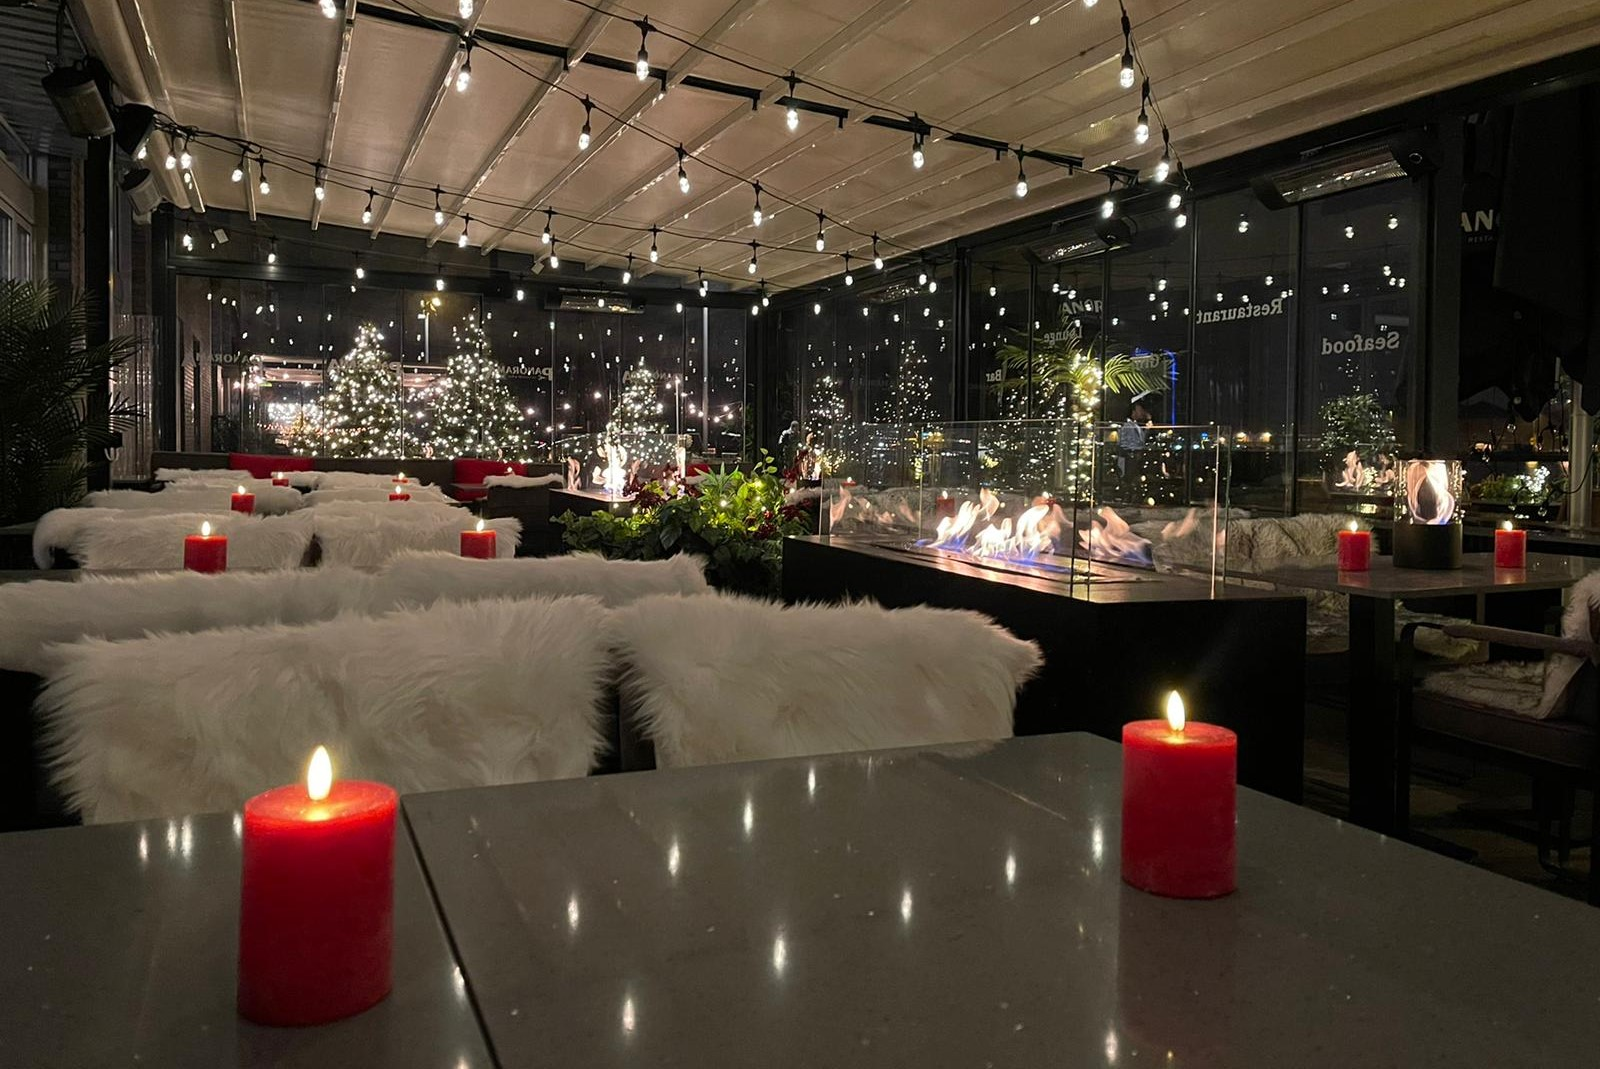
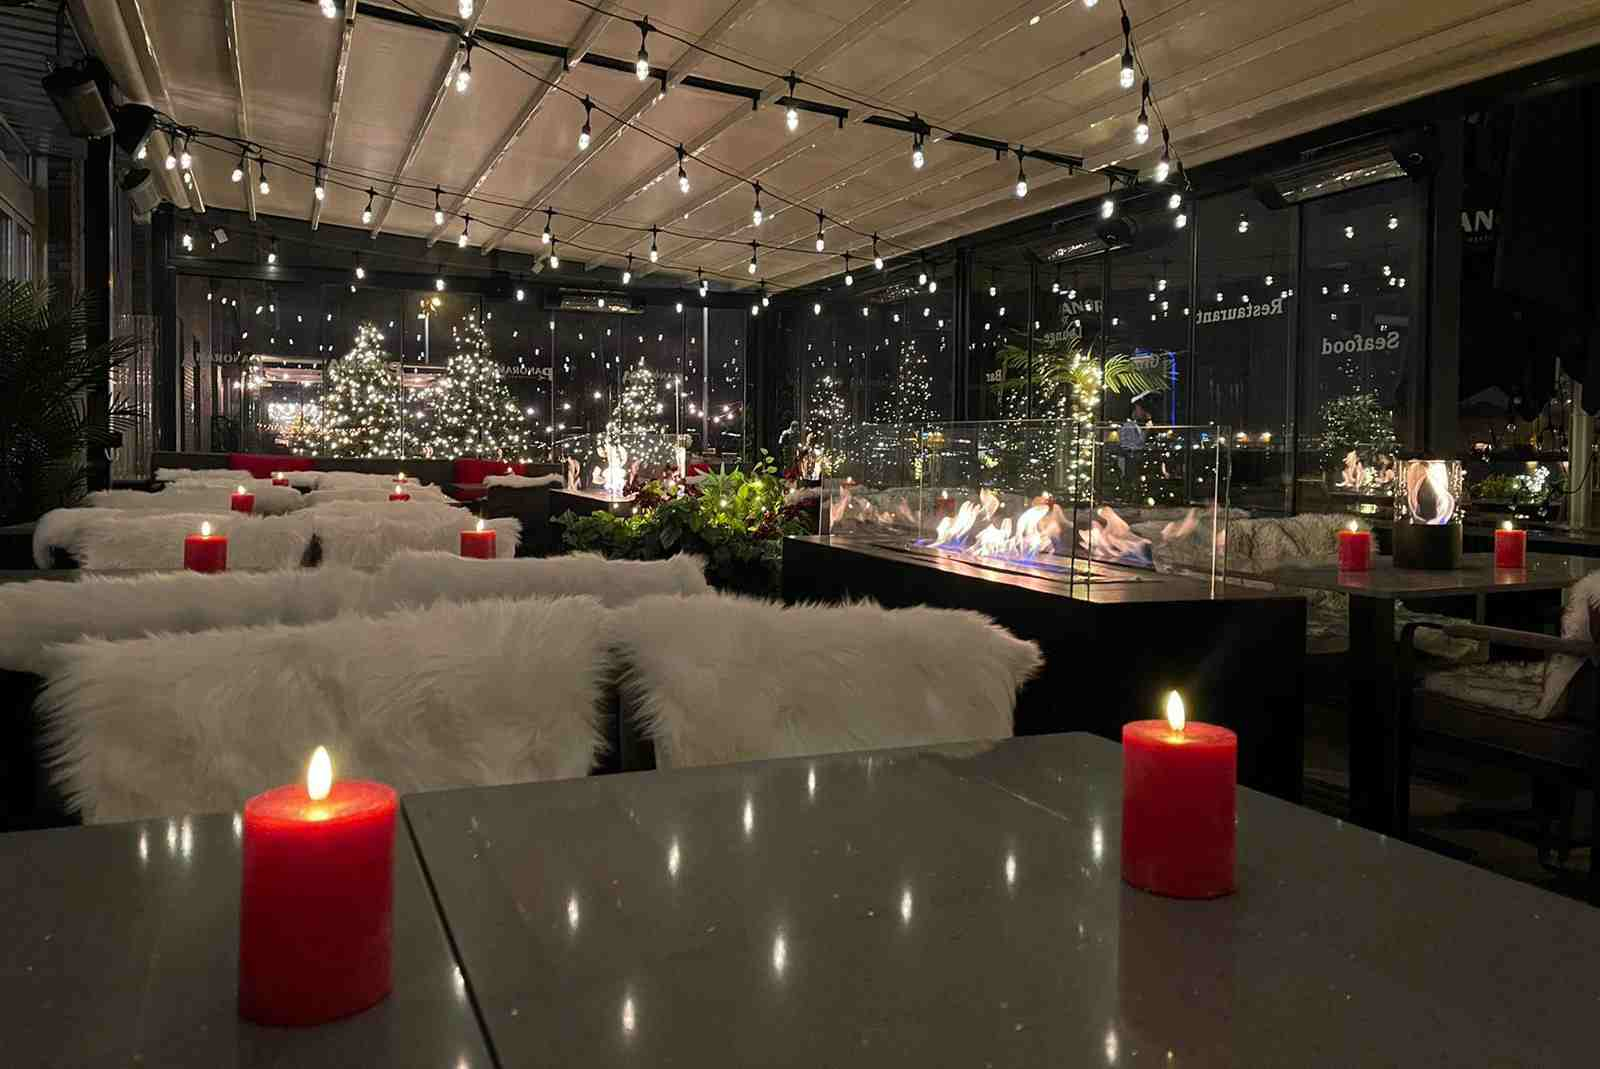
compressed some imgs and fixed some height and responsive issues at large and medium screen size

diff --git a/src/index.html b/src/index.html
@@ -33,8 +33,8 @@
     </header>
     <main class="inner">
 
-        <section id="heroBanner" class="relative h-[60vh] sm:h-[80vh] w-full  max-w-5xl mx-auto">
-            <div class="h-[60vh] sm:h-[80vh] w-full bg-hero-banner"></div>
+        <section id="heroBanner" class="relative h-[60vh] sm:h-[77vh] w-full  max-w-5xl mx-auto hero-banner">
+            <div class="h-[60vh] sm:h-[77vh] w-full bg-hero-banner"></div>
             <div class="hero-banner-img-shadow w-10 sm:w-16 absolute z-30"></div>
             <div class="hero-banner-img-shadow w-10 sm:w-16 absolute rotate-180 right-0 z-30"></div>
         </section>
@@ -65,7 +65,7 @@
             </div>
         </nav>
         <section id="omOss"
-            class="relative bg-cover bg-scroll bg-no-repeat bg-center xl:bg-[right_center] flex h-[90vh] w-full flex-col bg-[url('../src/img/om-oss-bilde.JPG')]">
+            class="relative bg-cover bg-scroll bg-no-repeat bg-center xl:bg-[right_center] flex h-[100vh] w-full flex-col bg-[url('../src/img/om-oss-bilde.JPG')]">
 
             <div
                 class="w-fit mx-auto sm:mr-0 p-5 sm:p-10 sm:pr-20 my-auto place-items-center z-50 bg-primary_clr-dark bg-opacity-70 text-primary_clr-light">
@@ -683,9 +683,9 @@
         </section>
     </main>
     <footer id="kontakt"
-        class="flex flex-col sm:justify-center sm:flex-row flex-wrap border-t mx-auto p-5 border-primary_clr-light max-w-screen-xl">
-        <div class="flex-col flex w-full sm:border-b sm:border-primary_clr-light">
-            <h3 class="text-primary_clr-light text-2xl sm:text-4xl text-center">
+        class="flex flex-col lg:justify-center lg:flex-row flex-wrap border-t mx-auto p-5 border-primary_clr-light max-w-screen-xl">
+        <div class="flex-col flex w-full lg:border-b lg:border-primary_clr-light">
+            <h3 class="text-primary_clr-light text-2xl lg:text-4xl text-center">
                 Panorama Restaurant
             </h3>
             <a id="adress" target="_blank"
@@ -693,10 +693,11 @@
                 class="relative text-secondary-default text-lg opacity-70 mt-[-2px] width-fit mx-auto pb-5">
                 Sørengkaia 69, 0194 Oslo
                 <img class="absolute top-1 right-[-30px] h-5" src="./img/svg/pin.svg" alt="pinpoint" />
+                <span class="absolute text-[10px] right-[-96px] h-5">Show on Maps</span>
             </a>
             
         </div>
-        <div class="w-full h-px sm:hidden bg-primary_clr-light mt-1 max-w"></div>
+        <div class="w-full h-px lg:hidden bg-primary_clr-light mt-1 max-w"></div>
         <div class="flex-col flex-1 flex max-w-xs py-5">
             <h4 class="text-primary_clr-light text-xl">Kontakt Oss:</h4>
             <p class="text-secondary-default text-lg opacity-50 pl-2">
@@ -706,7 +707,7 @@
                 post@panoramarestaurant.no
             </p>
         </div>
-        <div class="w-full h-px sm:hidden bg-primary_clr-light mt-1"></div>
+        <div class="w-full h-px lg:hidden bg-primary_clr-light mt-1"></div>
         <div class="flex-col flex-1 flex max-w-xs py-5">
             <h4 class="text-primary_clr-light text-xl">Åpningstider:</h4>
             <p class="text-secondary-default text-lg opacity-50 pl-2">
@@ -717,12 +718,12 @@
             </p>
             
         </div>
-        <div class="w-full h-px sm:hidden bg-primary_clr-light mt-1"></div>
+        <div class="w-full h-px lg:hidden bg-primary_clr-light mt-1"></div>
         <div class="flex-col flex-1 flex max-w-xs py-5">
-            <h4 class="text-primary_clr-light text-xl sm:text-right">
+            <h4 class="text-primary_clr-light text-xl lg:text-right">
                 Sosiale Medier:
             </h4>
-            <div class="flex gap-2 mt-1 sm:justify-end px-2">
+            <div class="flex gap-2 mt-1 lg:justify-end px-2">
                 <a href="https://l.facebook.com/l.php?u=https%3A%2F%2Finstagram.com%2Fpanoramasorenga%3Figshid%3DYmMyMTA2M2Y%253D%26fbclid%3DIwAR0o1Rjx1uZclldwzDseYobXAqNW0rxPSupUMsURCz0j19KanN5VqiILuic&h=AT2z_SFL9iOIncHFT9vur45kCms1wJ3DMiO6YQw6q3qYMn3mqqrS_fXV6aJcDpSPtT9OVjqnUYQKCtklhwIA-lgcdcScmIQsdqIhza8SEibs7qETMLdxv-XpIdPk4I20c7JxaQ"
                     target="_blank" rel="noopener noreferrer">
                     <img class="max-h-[30px]" src="./img/svg/instagram-2016-logo-svgrepo-com.svg"

diff --git a/src/input.css b/src/input.css
@@ -36,6 +36,10 @@
 .close::selection {
     background-color: transparent;
 }
+.hero-banner {
+    position: relative;
+    height: 60vh;
+}
 .hero-banner-img-shadow {
     top: 0;
     height: 100%;
@@ -51,7 +55,7 @@
     background-position: center;
     background-size: cover;
     background-image: url(./img/panorama-restaurant-outside.jpg);
-    animation: slide 40s infinite ease-out;
+    animation: slide 28s infinite ease-out;
 }
 @keyframes slide {
     23% {
@@ -68,11 +72,11 @@
     }
     50% {
         background-size: cover;
-        background-image: url(./img/image00149.jpeg);
+        background-image: url(./img/image00149.jpg);
     }
     73% {
         background-size: cover;
-        background-image: url(./img/image00149.jpeg);
+        background-image: url(./img/image00149.jpg);
     }
     75% {
         background-size: cover;
